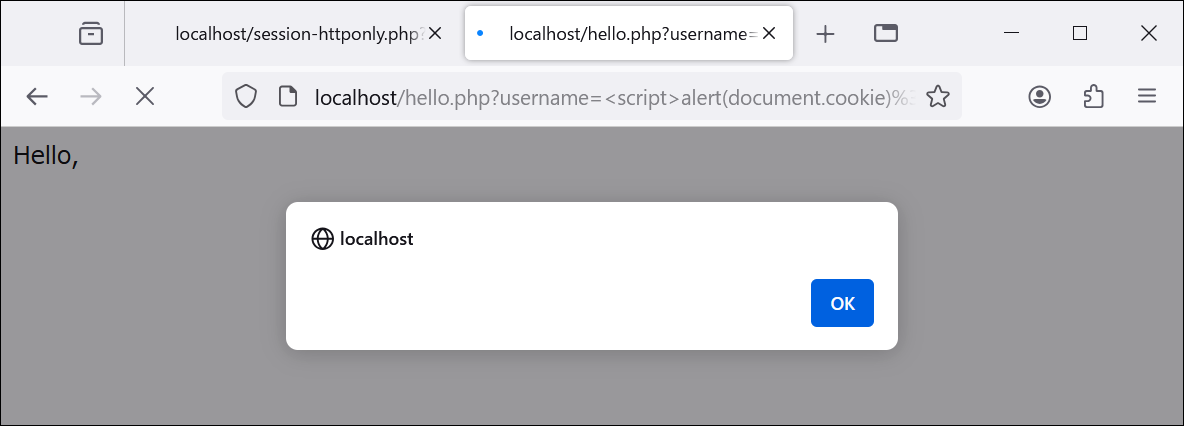
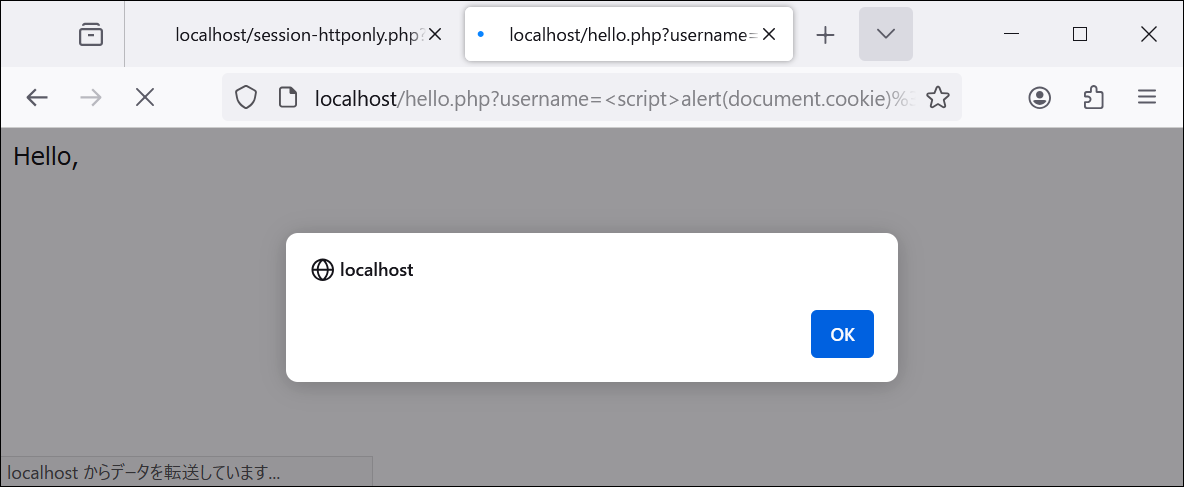
保険的な対策2（HttpOnly属性）

diff --git a/07-09/09.md b/07-09/09.md
@@ -111,17 +111,18 @@ SNS-B|ホストB（localhost）|[session-none.php](html/session-none.php), [good
 
 ![](img/09-httponly1-b.png)
 
-3. http://localhost/hello.php?username=%3Cscript%3E%5B...Array%28400%29.keys%28%29%5D.forEach%28%28i%29%3D%3E%7Bdocument.cookie%3D%60a_%24%7Bi%7D%3D%24%7Bi%7D%60%3B%7D%29%3Bdocument.cookie%3D%22PHPSESSID%3Devilvalue%22%3B%3C%2Fscript%3E でクッキーを大量にセットしてからなら，PHPSESSIDを上書きできる（セッション固定化攻撃）。
+3. http://localhost/hello.php?username=%3Cscript%3Efor+%28let+i+%3D+0%3B+i+%3C+400%3B+i%2B%2B%29+%7B+document.cookie+%3D+%60a_%24%7Bi%7D%3D%24%7Bi%7D%60%3B+%7D+document.cookie+%3D+%22PHPSESSID%3Devilvalue%22%3B+alert%28document.cookie%29%3B%3C%2Fscript%3E でクッキーを大量にセットしてからなら，PHPSESSIDを上書きできる（セッション固定化攻撃）。
 
 ![](img/09-httponly2-b.png)
 
 3のURLに埋め込んでいるスクリプトは次のとおり。
 
 ```javascript
-[...Array(400).keys()].forEach((i) => {
+for (let i = 0; i < 400; i++) {
   document.cookie = `a_${i}=${i}`;
-});
+}
 document.cookie = "PHPSESSID=evilvalue";
+alert(document.cookie);
 ```
 
 ### セッション固定化攻撃
